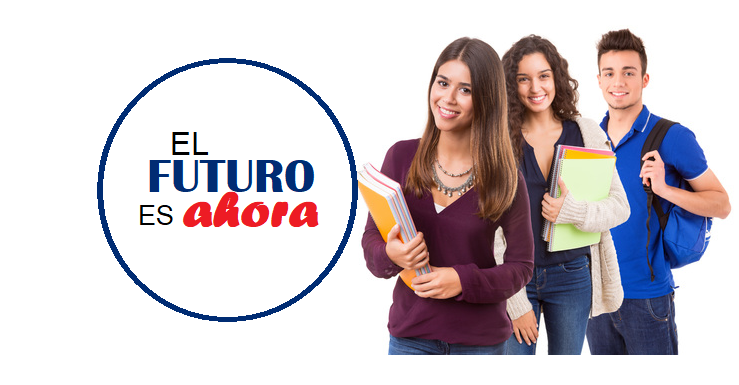
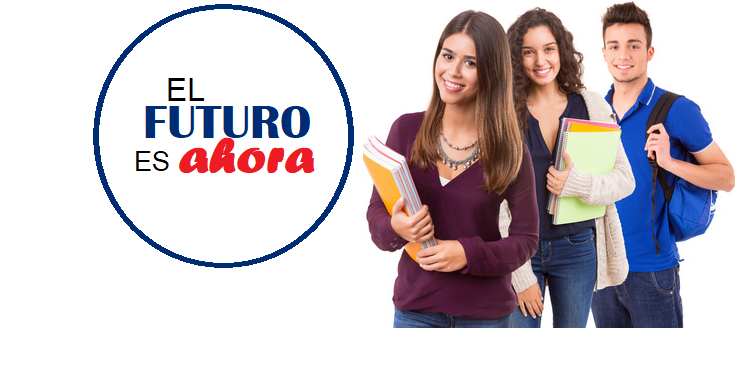
Se agrega estilos a la primera vista

diff --git a/index.html b/index.html
@@ -89,22 +89,23 @@
                     <div class="option">AFILIATE</div>
                 </div>
                 <div id="startContext">
-                    <div class="images">
-                        <img src="resources/img/el-futuro-es-ahora.png" alt="" class="image-size">
-                    </div>
-                    <!-- <div class="my-footer">
-                        <div class="slogan"><i>¡Lo mejor está por venir!</i></div>
-                        <div class="my-social-media">
-                            <i class="bx bxl-facebook-circle lg" style="color: blue; font-size: 40px;"></i>
-                            //<i class="bx bxl-facebook-circle bx-tada" style="color:#0000ff" ></i>Esta no va
-                            <i class="bx bxl-youtube" style="color: red; font-size: 40px;"></i>
-                            <i class="bx bxl-tiktok" style="background-color: #000; color: #fff; font-size: 30px;"></i>
-                            <i class="bx bxs-x-square" style="color: black; font-size: 40px;"></i>
-                            <i class="bx bxl-instagram-alt" style="color: #E1306C ; font-size: 40px;"></i>
-                            <i class="bx bxl-whatsapp-square" style="color: green; font-size: 40px;"></i>
-                            <i class="bx bxs-envelope" style="color: #034fa0; font-size: 40px;"></i>
+                    <div class="principal">
+                        <div class="images">
+                            <img src="resources/img/el-futuro-es-ahora.png" alt="" class="image-size">
                         </div>
-                    </div> -->
+                        <div class="footer">
+                            <div class="slogan"><i>¡Lo mejor está por venir!</i></div>
+                            <div class="my-social-media">
+                                <i class="bx bxl-facebook-circle lg" style="color: blue; font-size: 40px;"></i>
+                                <i class="bx bxl-youtube" style="color: red; font-size: 40px;"></i>
+                                <i class="bx bxl-tiktok" style="background-color: #000; color: #fff; font-size: 30px;"></i>
+                                <i class="bx bxs-x-square" style="color: black; font-size: 40px;"></i>
+                                <i class="bx bxl-instagram-alt" style="color: #E1306C ; font-size: 40px;"></i>
+                                <i class="bx bxl-whatsapp-square" style="color: green; font-size: 40px;"></i>
+                                <i class="bx bxs-envelope" style="color: #034fa0; font-size: 40px;"></i>
+                            </div>
+                        </div>
+                    </div>
                 </div>
             </div>
         </div>

diff --git a/resources/css/styles.css b/resources/css/styles.css
@@ -1,3 +1,4 @@
+@import url('https://fonts.googleapis.com/css2?family=Courgette&family=Lobster&display=swap');
 *{
     margin: 0;
     padding: 0;
@@ -98,15 +99,19 @@
         max-width: 900px;
         max-height: 370px;
     }
+    .principal{
+        position: relative;
+    }
 
-.my-footer{
-    width: 1140px; /* Debe tener el valor de container */
+.principal > .footer{
     position: absolute;
     text-align: center;
+    width: 100%;
+    bottom: -50px;
 }
 .slogan{
     font-size: 2.8rem;
-    font-family:Cambria, Cochin, Georgia, Times, 'Times New Roman', serif;
+    font-family: "Courgette", cursive;
     font-weight: bold;
     color: #002C73;
 }
